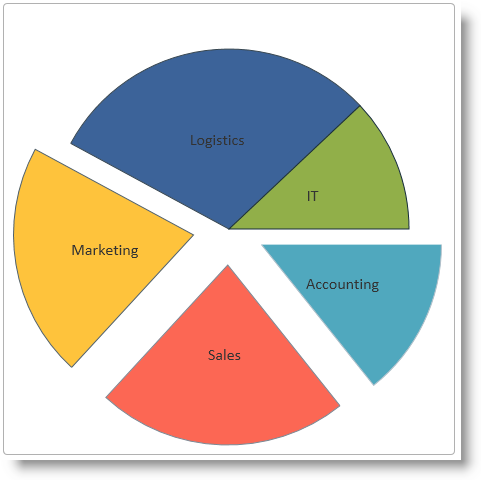
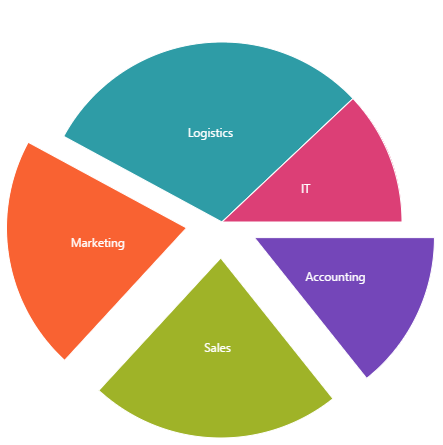
Add XMLDataBinding PieChart to DataBinding Topic.
Remove excess images. Add new one.

diff --git a/topics/02_Controls/igPieChart/02_igPieChart_DataBinding.md b/topics/02_Controls/igPieChart/02_igPieChart_DataBinding.md
@@ -166,7 +166,7 @@ The following steps demonstrate how to bind JavaScript data array to an `igPieCh
 		            dataValue: "Budget",
 		            dataLabel: "Department",
 		            radiusFactor: 0.8,
-		            explodedSlices: "0 1 2",
+		            explodedSlices: "[0,1,2]",
 		            legend: { element: "legend", type: "item" }
 		        });
 		    });
@@ -174,6 +174,119 @@ The following steps demonstrate how to bind JavaScript data array to an `igPieCh
 		```
 
 
+### <a id="data-source-summary"></a>Data sources summary
+
+Data binding for `igPieChart` is done identically to binding for other controls from the Ignite UI™ library. The way to bind data is by either by assigning a data source to the `dataSource` option or to provide a URL in the `dataSourceUrl` if data is provided by a web or WCF service.
+
+
+
+##<a id="bind-js"></a>Bind to XML
+
+### <a id="js-introduction"></a>Introduction
+
+This procedure shows in several steps how to bind an XML string to an `igPieChart` control.
+
+### Prerequisites
+
+To complete the procedure, you need the following:
+
+-   An HTML5 web page
+-   All required JavaScript and CSS files added to your web site or web application project. For detailed information on instantiation and configuration of an `igPieChart` see [Adding an igPieChart](igPieChart-Adding.html).
+
+### <a id="js-preview"></a>Preview
+
+The following screenshot is a preview of the final result.
+
+![](images/Data_Binding_in_igPieChartXML_4.png)
+
+### <a id="js-steps"></a>Steps
+
+The following steps demonstrate how to bind an XML string to an `igPieChart` control. In order to link the XML data to the chart it will require to specify a `DataSchema` as well and pass both to an instance of `igDataSource`. The main role of this data component is to output data in a readable for IgniteUI widgets format.
+
+1. Prepare the data in a readable for `igPieChart` format. 
+	
+	1. At first, define an XML data sting. In this example, it will be the following XML data.
+
+		**In HTML:**
+
+		```html
+		<script type="text/javascript">
+			//Sample XML Data
+			var xmlDoc = '<Countries>' +
+				'<Country Name="China" Population="1333" />' +
+				'<Country Name="India" Population="1140" />' +
+				'<Country Name="United States" Population="304" />' +
+				'<Country Name="Indonesia" Population="228" />' +
+				'<Country Name="Brazil" Population="192" />' +
+			'</Countries>';
+		</script>
+		```
+
+	2. [Binding to XML](igdatasource-binding-to-xml.html) requires a [igDataSchema](%%jQueryApiUrl%%/ig.dataschema) to define data fields. This component handles transformations for Array, JSON and XML data objects for the [igDataSource](%%jQueryApiUrl%%/ig.datasource). Specify where the records in the date source are located using [searchField](%%jQueryApiUrl%%/ig.dataschema#options:schema.searchField) option. Notice how the [fields](%%jQueryApiUrl%%/ig.dataschema#options:schema.fields) are defined by specifying an `“xpath”` property for every field definition. This is unique to XML data sources. In this way, you are telling the data source the path to the property you are binding, in every hierarchical object that is in the list. 
+
+		```html
+		<script type="text/javascript">
+			var xmlSchema = new $.ig.DataSchema("xml",
+				{ 
+					//searchField serves as the base node(s) for the XPaths
+					searchField: "//Country", 
+					fields: [
+						{ name: "Name", xpath: "./@Name" },
+						{ name: "Population", xpath: "./@Population", type: "number" },
+					]
+				}
+			);
+		</script>
+		```
+
+	3. Create an [Infragistics datasource](igdatasource-igdatasource-overview.html) which can be consumed by the chart from the already configured XML Data and `igDataSchema`. 
+
+		```html
+		<script type="text/javascript">
+			var ds = new $.ig.DataSource({
+				type: "xml",
+				dataSource: xmlDoc,
+				schema: xmlSchema 
+			});
+		</script>
+		```
+
+2. Instantiate chart control and set data source.
+
+	1. Add the chart div element to the web page.
+
+		Add a div element in the body part of your web page using the following code:
+
+		**In HTML:**
+
+		```html
+		<body>
+		    ...
+		    <div id="chart"></div>
+		    ...
+		</body>
+		```
+
+	2. Instantiate the igPieChart control and configure the data source.
+
+		**In HTML:**
+
+		```html
+		<script type="text/javascript">
+		    $(function () {
+		        $("#chart").igPieChart({
+					width: "435px",
+					height: "435px",
+					dataSource: ds, //$.ig.DataSource defined above
+					dataValue: "Pop2008",
+					dataLabel: "CountryName",
+					labelsPosition: "bestFit",
+					radiusFactor: 0.8,
+					explodedSlices: [0,2,3,4],	
+		        });
+		    });
+		</script>
+		```
 
 
 
@@ -194,7 +307,7 @@ To complete the procedure, you need the following:
 
 The following screenshot is a preview of the final result.
 
-![](images/Data_Binding_in_igPieChart_2.png)
+![](images/Data_Binding_in_igPieChart_1.png)
 
 ### <a id="mvc-steps"></a>Steps
 
@@ -274,7 +387,7 @@ To complete the procedure, you need the following:
 
 The following screenshot is a preview of the final result.
 
-![](images/Data_Binding_in_igPieChart_3.png)
+![](images/Data_Binding_in_igPieChart_1.png)
 
 ### <a id="wcf-steps"></a>Steps
 
